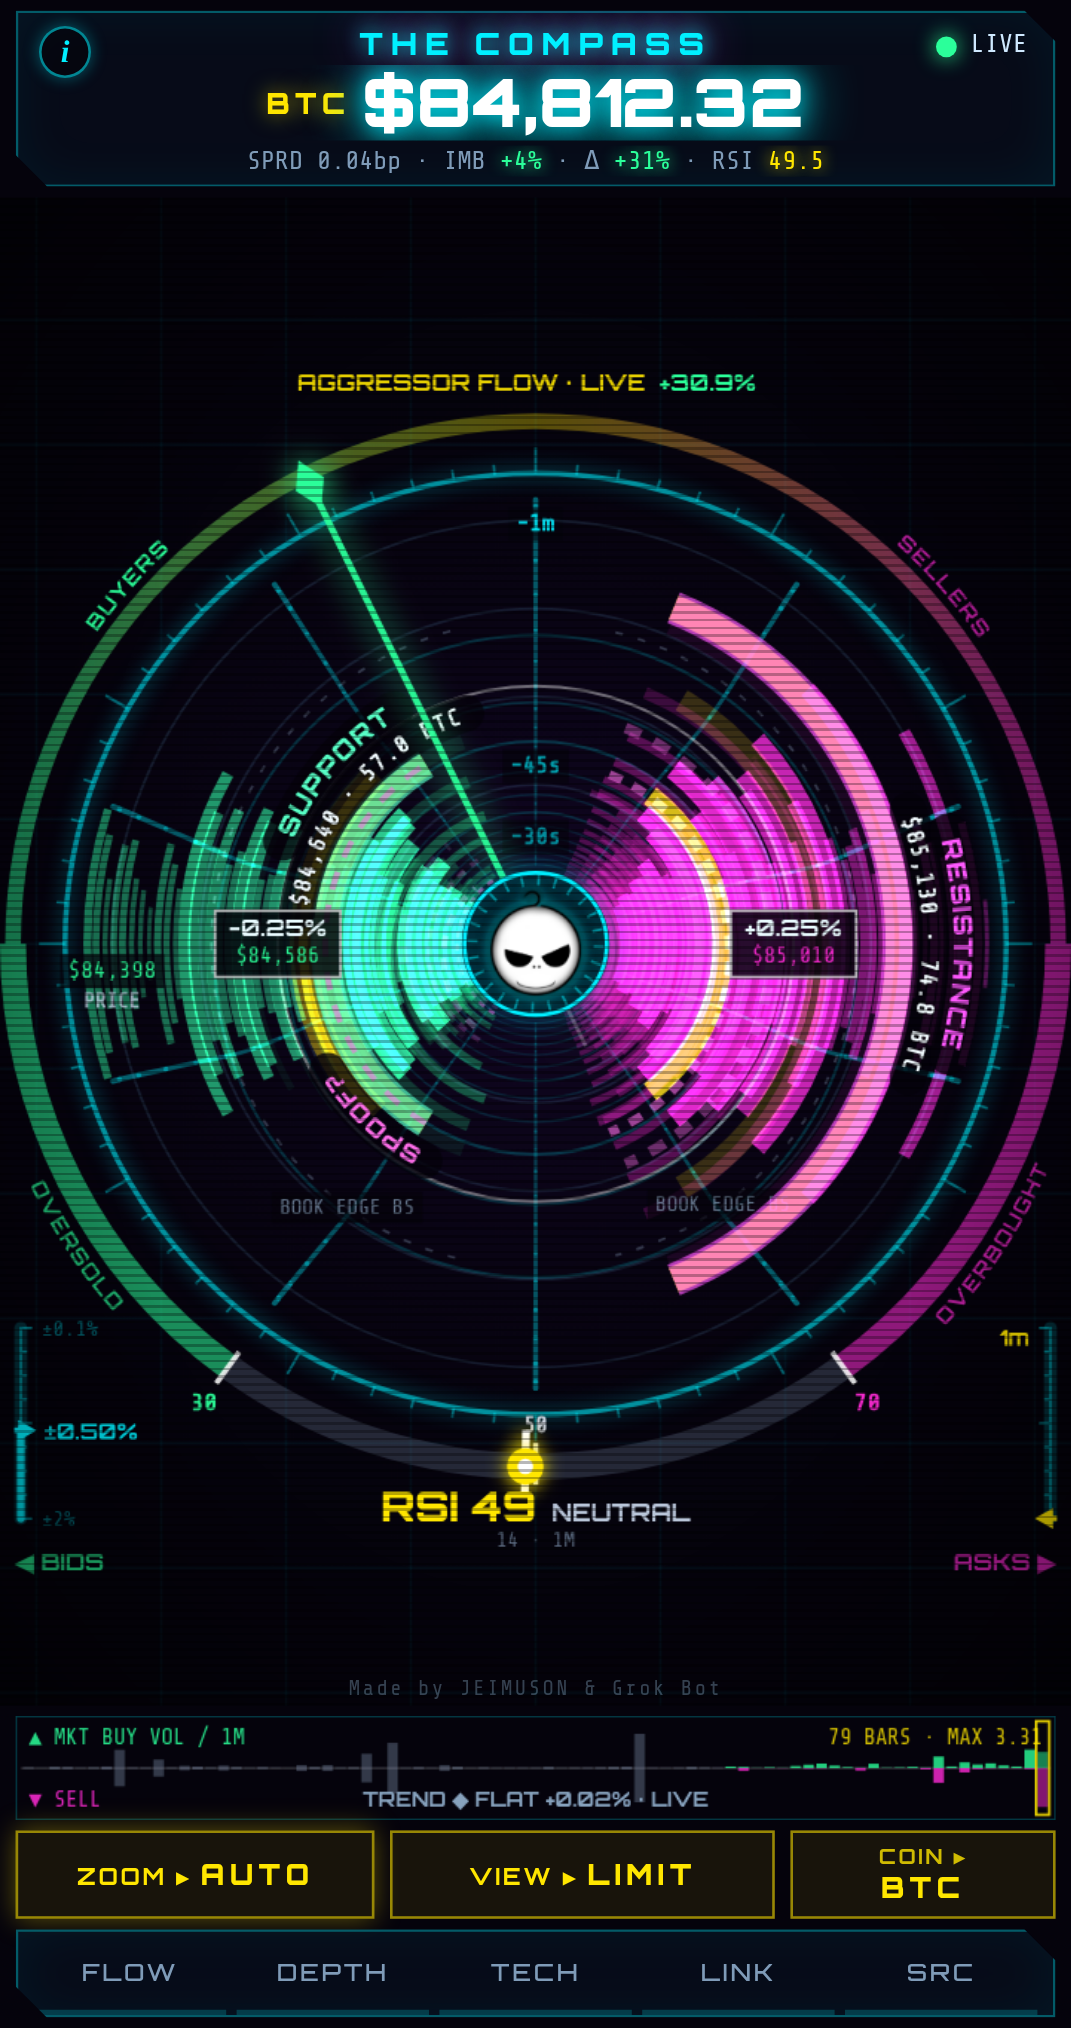
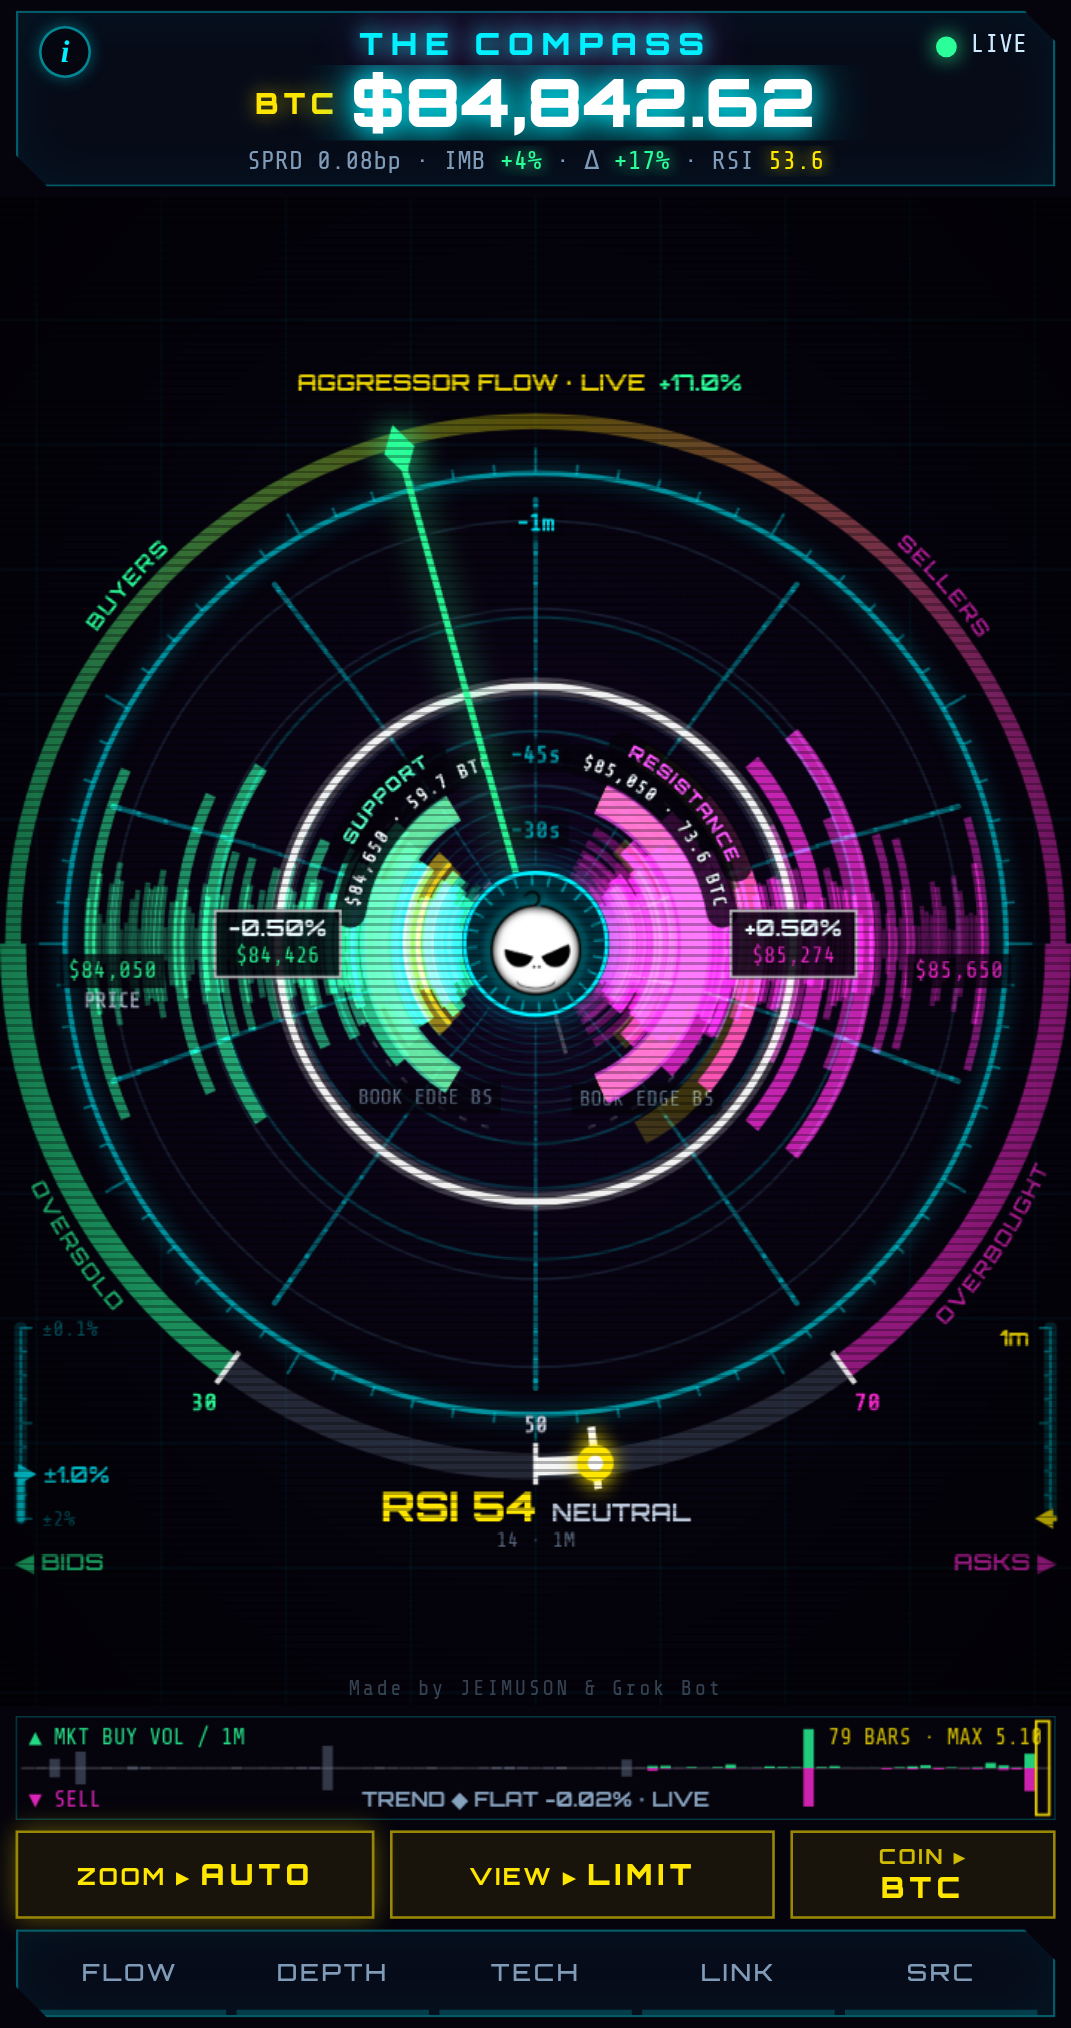
Build 20261003-1205: LIMIT halfway circle thicker/brighter, glow, drawn above walls; refreshed LIMIT screenshots

diff --git a/index.html b/index.html
@@ -3,7 +3,7 @@
 <head>
 <meta charset="utf-8">
 <meta http-equiv="Cache-Control" content="no-cache, no-store, must-revalidate"><meta http-equiv="Pragma" content="no-cache"><meta http-equiv="Expires" content="0">
-<script>window.OFC_BUILD='20261003-1130';try{localStorage.removeItem('ofc.trail')}catch(e){};(function(){try{if(!/^https?:/.test(location.protocol))return;fetch(location.pathname+'?_='+Date.now(),{cache:'no-store'}).then(r=>r.text()).then(t=>{const m=t.match(/OFC_BUILD='([^']+)'/);if(m&&m[1]!==window.OFC_BUILD&&sessionStorage.getItem('ofcB')!==m[1]){sessionStorage.setItem('ofcB',m[1]);location.replace(location.pathname+'?v='+m[1]+location.hash);}}).catch(()=>{});}catch(e){}})();</script>
+<script>window.OFC_BUILD='20261003-1205';try{localStorage.removeItem('ofc.trail')}catch(e){};(function(){try{if(!/^https?:/.test(location.protocol))return;fetch(location.pathname+'?_='+Date.now(),{cache:'no-store'}).then(r=>r.text()).then(t=>{const m=t.match(/OFC_BUILD='([^']+)'/);if(m&&m[1]!==window.OFC_BUILD&&sessionStorage.getItem('ofcB')!==m[1]){sessionStorage.setItem('ofcB',m[1]);location.replace(location.pathname+'?v='+m[1]+location.hash);}}).catch(()=>{});}catch(e){}})();</script>
 <script>/* viewport height guard: Android standalone PWAs can report a stale/too-tall 100dvh right after a reload (e.g. coin switch) -> size from the smallest sane measurement and keep re-checking */
 (function(){var R=document.documentElement;function m(){var v=window.visualViewport,c=[window.innerHeight,R.clientHeight];if(v&&v.height>0)c.push(v.height);c=c.filter(function(x){return x>100;});if(!c.length)return;
   var h=Math.round(Math.min.apply(null,c))+'px';if(R.style.getPropertyValue('--apph')!==h){R.style.setProperty('--apph',h);try{window.dispatchEvent(new Event('ofc-vh'));}catch(e){}}}
@@ -1054,7 +1054,14 @@ function drawGrid(t){
 let PLBL=[];
 const PF=p=>'$'+(CC.pf>=4?p.toFixed(CC.pf):fmtX(p,CC.pf));
 let HALF=null;   // halfway readout boxes (geometry from drawPriceRings)
-function drawHalfBoxes(){if(!HALF)return;const {w,h,f1,f2}=HALF;ctx.save();
+function drawHalfBoxes(){if(!HALF)return;const {w,h,f1,f2,rh}=HALF,T=Math.PI*2,lw=WIDE?Math.min(5,Math.max(3.2,RMAX/90)):2.8;
+  // halfway circle: drawn ABOVE the wall arcs (soft white glow + crisp core); gapped where a SUPPORT/RESISTANCE label crosses its radius
+  const G=[];for(const sd of ['bid','ask']){const k=KLB[sd];if(k&&k.th!=null&&k.r0<rh+lw&&k.r1>rh-lw){const g=k.ah+0.03,n=(((k.th-g)%T)+T)%T;G.push([n,n+2*g]);}}
+  const segs=[];if(!G.length)segs.push([0,T]);else{G.sort((a,b)=>a[0]-b[0]);for(let i=0;i<G.length;i++){const e=G[i][1],ns=i+1<G.length?G[i+1][0]:G[0][0]+T;if(ns>e)segs.push([e,ns]);}}
+  ctx.save();ctx.lineCap='round';
+  for(const [st,lwp,blur,a] of [['rgba(255,255,255,.22)',lw+4,Q>0?18:0,1],['rgba(255,255,255,.93)',lw,Q>0?7:0,1]]){ctx.strokeStyle=st;ctx.lineWidth=lwp;ctx.shadowColor='rgba(255,255,255,.9)';ctx.shadowBlur=blur;
+    ctx.beginPath();for(const [a0,a1] of segs){ctx.moveTo(CX+Math.cos(a0)*rh,CY+Math.sin(a0)*rh);ctx.arc(CX,CY,rh,a0,a1);}ctx.stroke();}
+  ctx.restore();ctx.save();
   for(const [side,t,p,x] of HALF.box){const bx=x-w/2,by=CY-h/2;ctx.fillStyle='rgba(5,3,12,.86)';ctx.fillRect(bx,by,w,h);
     ctx.strokeStyle='rgba(255,255,255,.7)';ctx.lineWidth=1;ctx.shadowColor='rgba(255,255,255,.7)';ctx.shadowBlur=Q>0?6:0;ctx.strokeRect(bx+.5,by+.5,w-1,h-1);ctx.shadowBlur=0;
     ctx.textAlign='center';ctx.textBaseline='top';ctx.font=`700 ${f1}px Orbitron,sans-serif`;ctx.fillStyle=PAUTO?'#e9fbff':'#ffe600';ctx.fillText(t,x,by+3);
@@ -1076,8 +1083,7 @@ function drawPriceRings(){
   ctx.font=`${WIDE?10:9}px "Share Tech Mono",monospace`;ctx.textAlign='center';let ri=0;PLBL=[];
   HALF=null;
   if(VIEW!=='market'){   // LIMIT halfway circle (fixed radius, midway hub..edge = ±half the price zoom) + two fixed readout boxes on it (drawn on top in drawPriceLabels)
-    const rh=R0+(RMAX-R0)/2,hp=PRANGE/2;ctx.save();ctx.strokeStyle='rgba(255,255,255,.42)';ctx.lineWidth=1.2;ctx.shadowColor='rgba(255,255,255,.85)';ctx.shadowBlur=Q>0?7:0;
-    ctx.beginPath();ctx.arc(CX,CY,rh,0,Math.PI*2);ctx.stroke();ctx.restore();
+    const rh=R0+(RMAX-R0)/2,hp=PRANGE/2;
     const f1=WIDE?11:9,f2=WIDE?10:8.5,t1=fmtPct(hp);ctx.save();ctx.font=`700 ${f1}px Orbitron,sans-serif`;const wa=ctx.measureText('+'+t1).width;ctx.font=`${f2}px "Share Tech Mono",monospace`;
     const pb=PF(dispMid*(1-hp)),pa=PF(dispMid*(1+hp)),w=Math.max(wa,ctx.measureText(pb).width,ctx.measureText(pa).width)+12,h=f1+f2+9;ctx.restore();
     HALF={rh,w,h,f1,f2,r0:rh-w/2,r1:rh+w/2,box:[['bid','−'+t1,pb,CX-rh],['ask','+'+t1,pa,CX+rh]]};
@@ -1166,6 +1172,7 @@ function drawKeyWalls(now,maxq){   // SUPPORT (bid) / RESISTANCE (ask): highligh
     let al=Math.max(0,Math.min(1,(r-R0*1.12)/(R0*0.45)))*Math.max(0,Math.min(1,(allow*1.35-totM)/(allow*0.35)));   // ... then fade if still too long / too close to the hub
     if(al<=0.03)continue;KLB[side]={r0:R1-3,r1:R2+fs1+3,ah:totM/2+0.04};
     let TH=a0;if(HALF&&R2+fs1+3>HALF.r0-4&&R1-3<HALF.r1+4)TH=a0+(side==='bid'?1:-1)*(totM/2+(HALF.h/2+6)/R1);   // clear the halfway readout box: slide the text up along its arc
+    KLB[side].th=TH;
     ctx.save();ctx.globalAlpha=al;ctx.textAlign='center';ctx.textBaseline='alphabetic';
     for(const [txt,R,font,col,glow] of [[L1,R1,F1,'#f2fbff',0],[L2,R2,F2,rgba(cc,1),10]]){
       ctx.font=font;const fz=parseFloat(font.split(' ')[1]),th=TH,T=arcText(txt,R,th);
